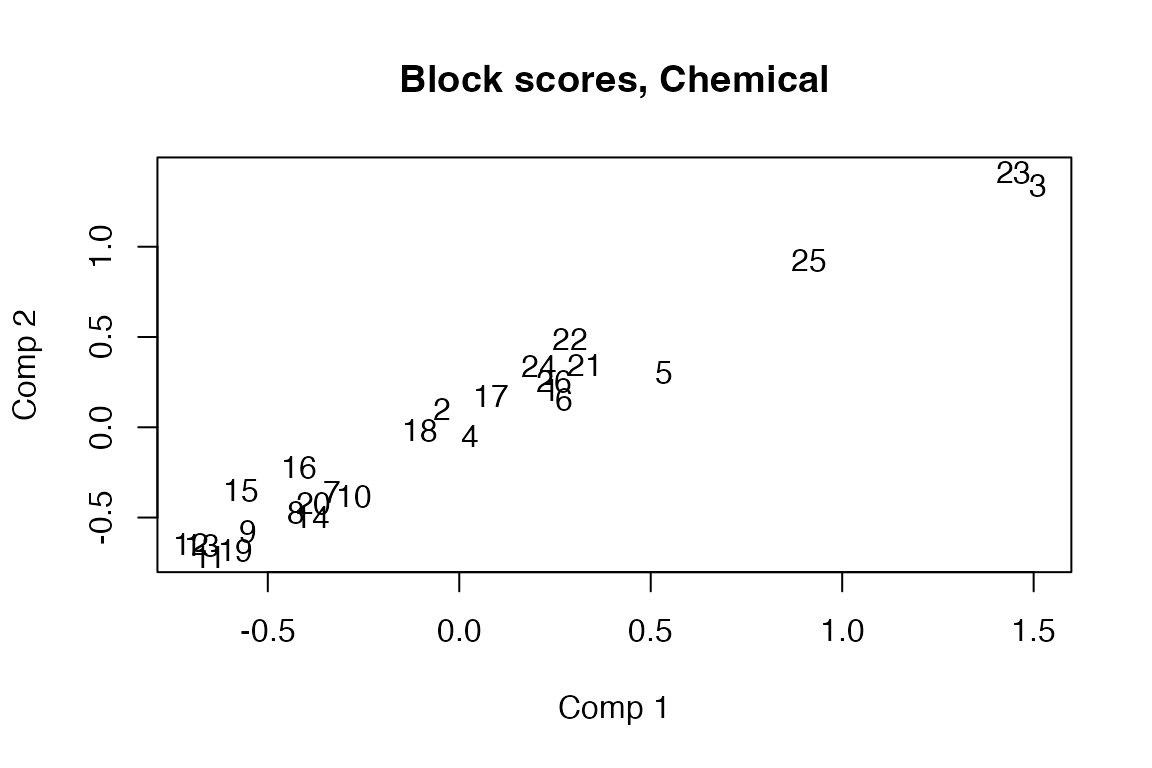
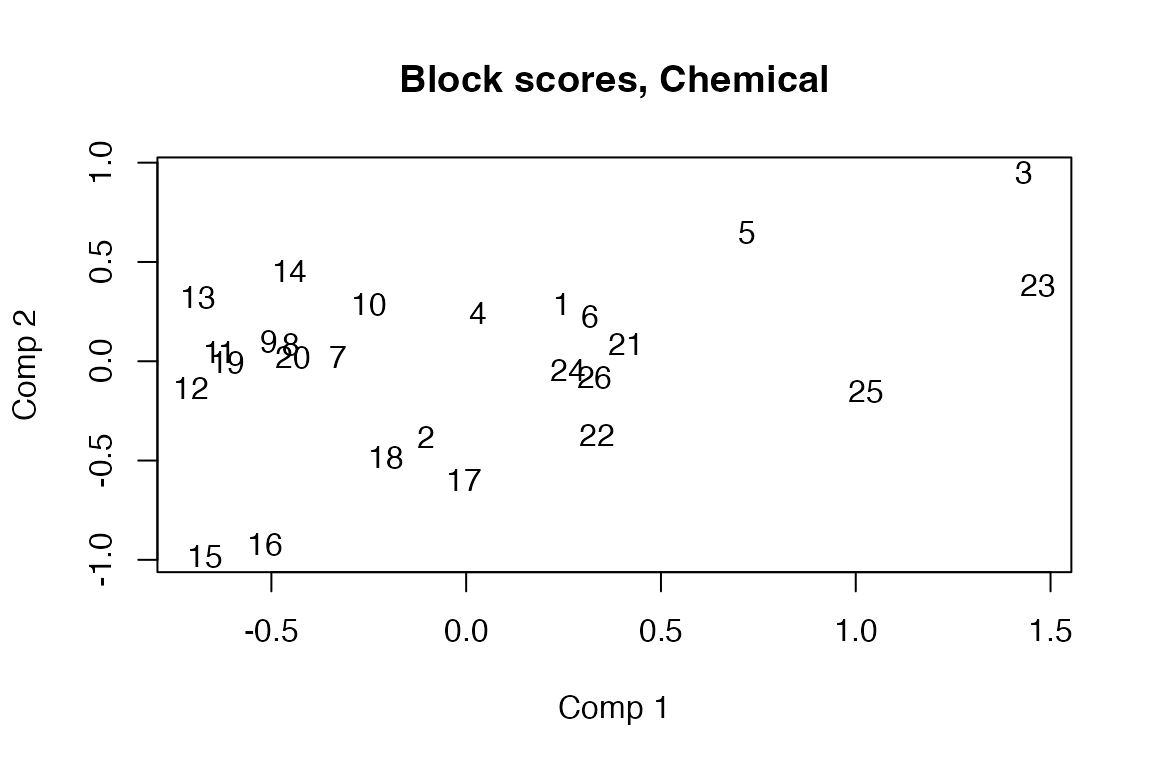
Corrected scaling issue in MBPLS

diff --git a/docs/articles/vignette_E_supervised.html b/docs/articles/vignette_E_supervised.html
@@ -922,11 +922,11 @@ total is cross-validated with 10 random segments.</p>
 <span><span class="co">#&gt; VALIDATION: RMSEP</span></span>
 <span><span class="co">#&gt; Cross-validated using 5 random segments.</span></span>
 <span><span class="co">#&gt;        (Intercept)  1 comps  2 comps  3 comps  4 comps  5 comps  6 comps</span></span>
-<span><span class="co">#&gt; CV           1.778   1.0040   0.9334    0.847   0.7566   0.7241   0.5800</span></span>
-<span><span class="co">#&gt; adjCV        1.778   0.9518   0.8788    0.776   0.6809   0.6530   0.5295</span></span>
+<span><span class="co">#&gt; CV           1.778   0.9601   0.8438   0.7274   0.6197   0.5712   0.5285</span></span>
+<span><span class="co">#&gt; adjCV        1.778   0.9384   0.8166   0.6816   0.5733   0.5314   0.4956</span></span>
 <span><span class="co">#&gt;        7 comps  8 comps  9 comps  10 comps</span></span>
-<span><span class="co">#&gt; CV      0.5626   0.5914   0.6531    0.7122</span></span>
-<span><span class="co">#&gt; adjCV   0.5131   0.5369   0.5927    0.6485</span></span>
+<span><span class="co">#&gt; CV      0.5598   0.5820   0.6517    0.6705</span></span>
+<span><span class="co">#&gt; adjCV   0.5199   0.5369   0.5955    0.6144</span></span>
 <span><span class="co">#&gt; </span></span>
 <span><span class="co">#&gt; TRAINING: % variance explained</span></span>
 <span><span class="co">#&gt;          1 comps  2 comps  3 comps  4 comps  5 comps  6 comps  7 comps  8 comps</span></span>
@@ -984,9 +984,9 @@ RMSE(P/CV).</p>
 <code class="sourceCode R"><span><span class="co"># Cross-validation</span></span>
 <span><span class="fu"><a href="https://rdrr.io/pkg/pls/man/mvrVal.html" class="external-link">R2</a></span><span class="op">(</span><span class="va">ros.pot</span><span class="op">)</span></span>
 <span><span class="co">#&gt; (Intercept)      1 comps      2 comps      3 comps      4 comps      5 comps  </span></span>
-<span><span class="co">#&gt;     -0.0816       0.6550       0.7018       0.7545       0.8041       0.8205  </span></span>
+<span><span class="co">#&gt;     -0.0816       0.6845       0.7563       0.8189       0.8686       0.8883  </span></span>
 <span><span class="co">#&gt;     6 comps      7 comps      8 comps      9 comps     10 comps  </span></span>
-<span><span class="co">#&gt;      0.8849       0.8917       0.8803       0.8540       0.8264</span></span>
+<span><span class="co">#&gt;      0.9044       0.8927       0.8841       0.8546       0.8461</span></span>
 <span><span class="co"># Training</span></span>
 <span><span class="fu"><a href="https://rdrr.io/pkg/pls/man/mvrVal.html" class="external-link">R2</a></span><span class="op">(</span><span class="va">ros.pot</span>, <span class="st">'train'</span><span class="op">)</span></span>
 <span><span class="co">#&gt; (Intercept)      1 comps      2 comps      3 comps      4 comps      5 comps  </span></span>
@@ -1002,11 +1002,11 @@ RMSE(P/CV).</p>
 <code class="sourceCode R"><span><span class="co"># Cross-validation</span></span>
 <span><span class="fu"><a href="https://rdrr.io/pkg/pls/man/mvrVal.html" class="external-link">RMSEP</a></span><span class="op">(</span><span class="va">ros.pot</span><span class="op">)</span></span>
 <span><span class="co">#&gt;        (Intercept)  1 comps  2 comps  3 comps  4 comps  5 comps  6 comps</span></span>
-<span><span class="co">#&gt; CV           1.778   1.0040   0.9334    0.847   0.7566   0.7241   0.5800</span></span>
-<span><span class="co">#&gt; adjCV        1.778   0.9518   0.8788    0.776   0.6809   0.6530   0.5295</span></span>
+<span><span class="co">#&gt; CV           1.778   0.9601   0.8438   0.7274   0.6197   0.5712   0.5285</span></span>
+<span><span class="co">#&gt; adjCV        1.778   0.9384   0.8166   0.6816   0.5733   0.5314   0.4956</span></span>
 <span><span class="co">#&gt;        7 comps  8 comps  9 comps  10 comps</span></span>
-<span><span class="co">#&gt; CV      0.5626   0.5914   0.6531    0.7122</span></span>
-<span><span class="co">#&gt; adjCV   0.5131   0.5369   0.5927    0.6485</span></span>
+<span><span class="co">#&gt; CV      0.5598   0.5820   0.6517    0.6705</span></span>
+<span><span class="co">#&gt; adjCV   0.5199   0.5369   0.5955    0.6144</span></span>
 <span><span class="co"># Training</span></span>
 <span><span class="fu"><a href="https://rdrr.io/pkg/pls/man/mvrVal.html" class="external-link">RMSEP</a></span><span class="op">(</span><span class="va">ros.pot</span>, <span class="st">'train'</span><span class="op">)</span></span>
 <span><span class="co">#&gt; (Intercept)      1 comps      2 comps      3 comps      4 comps      5 comps  </span></span>

diff --git a/docs/reference/reexports.html b/docs/reference/reexports.html
@@ -3,7 +3,7 @@
 below to see their documentation.
 
   pls
-coefplot, cvsegments, loading.weights, loadingplot, loadings, MSEP, mvrValstats, pcr, plsr, predplot, R2, RMSEP, scoreplot, scores, validationplot
+MSEP, R2, RMSEP, coefplot, cvsegments, loading.weights, loadingplot, loadings, mvrValstats, pcr, plsr, predplot, scoreplot, scores, validationplot
 
 
 "><!-- mathjax --><script src="https://cdnjs.cloudflare.com/ajax/libs/mathjax/2.7.5/MathJax.js" integrity="sha256-nvJJv9wWKEm88qvoQl9ekL2J+k/RWIsaSScxxlsrv8k=" crossorigin="anonymous"></script><script src="https://cdnjs.cloudflare.com/ajax/libs/mathjax/2.7.5/config/TeX-AMS-MML_HTMLorMML.js" integrity="sha256-84DKXVJXs0/F8OTMzX4UR909+jtl4G7SPypPavF+GfA=" crossorigin="anonymous"></script><!--[if lt IE 9]>
@@ -81,7 +81,7 @@ coefplot, cvsegments, loading.weights, loadingplot, loadings, MSEP, mvrValstats,
     <p>These objects are imported from other packages. Follow the links
 below to see their documentation.</p>
 <dl><dt>pls</dt>
-<dd><p><code><a href="https://rdrr.io/pkg/pls/man/coefplot.html" class="external-link">coefplot</a></code>, <code><a href="https://rdrr.io/pkg/pls/man/cvsegments.html" class="external-link">cvsegments</a></code>, <code><a href="https://rdrr.io/pkg/pls/man/scores.html" class="external-link">loading.weights</a></code>, <code><a href="https://rdrr.io/pkg/pls/man/scoreplot.html" class="external-link">loadingplot</a></code>, <code><a href="https://rdrr.io/pkg/pls/man/scores.html" class="external-link">loadings</a></code>, <code><a href="https://rdrr.io/pkg/pls/man/mvrVal.html" class="external-link">MSEP</a></code>, <code><a href="https://rdrr.io/pkg/pls/man/mvrVal.html" class="external-link">mvrValstats</a></code>, <code><a href="https://rdrr.io/pkg/pls/man/mvr.html" class="external-link">pcr</a></code>, <code><a href="https://rdrr.io/pkg/pls/man/mvr.html" class="external-link">plsr</a></code>, <code><a href="https://rdrr.io/pkg/pls/man/predplot.html" class="external-link">predplot</a></code>, <code><a href="https://rdrr.io/pkg/pls/man/mvrVal.html" class="external-link">R2</a></code>, <code><a href="https://rdrr.io/pkg/pls/man/mvrVal.html" class="external-link">RMSEP</a></code>, <code><a href="https://rdrr.io/pkg/pls/man/scoreplot.html" class="external-link">scoreplot</a></code>, <code><a href="https://rdrr.io/pkg/pls/man/scores.html" class="external-link">scores</a></code>, <code><a href="https://rdrr.io/pkg/pls/man/validationplot.html" class="external-link">validationplot</a></code></p></dd>
+<dd><p><code><a href="https://rdrr.io/pkg/pls/man/mvrVal.html" class="external-link">MSEP</a></code>, <code><a href="https://rdrr.io/pkg/pls/man/mvrVal.html" class="external-link">R2</a></code>, <code><a href="https://rdrr.io/pkg/pls/man/mvrVal.html" class="external-link">RMSEP</a></code>, <code><a href="https://rdrr.io/pkg/pls/man/coefplot.html" class="external-link">coefplot</a></code>, <code><a href="https://rdrr.io/pkg/pls/man/cvsegments.html" class="external-link">cvsegments</a></code>, <code><a href="https://rdrr.io/pkg/pls/man/scores.html" class="external-link">loading.weights</a></code>, <code><a href="https://rdrr.io/pkg/pls/man/scoreplot.html" class="external-link">loadingplot</a></code>, <code><a href="https://rdrr.io/pkg/pls/man/scores.html" class="external-link">loadings</a></code>, <code><a href="https://rdrr.io/pkg/pls/man/mvrVal.html" class="external-link">mvrValstats</a></code>, <code><a href="https://rdrr.io/pkg/pls/man/mvr.html" class="external-link">pcr</a></code>, <code><a href="https://rdrr.io/pkg/pls/man/mvr.html" class="external-link">plsr</a></code>, <code><a href="https://rdrr.io/pkg/pls/man/predplot.html" class="external-link">predplot</a></code>, <code><a href="https://rdrr.io/pkg/pls/man/scoreplot.html" class="external-link">scoreplot</a></code>, <code><a href="https://rdrr.io/pkg/pls/man/scores.html" class="external-link">scores</a></code>, <code><a href="https://rdrr.io/pkg/pls/man/validationplot.html" class="external-link">validationplot</a></code></p></dd>
 
 
 </dl></div>

diff --git a/docs/reference/gpa.html b/docs/reference/gpa.html
@@ -871,18 +871,6 @@ Common functions for computation and extraction of results and plotting are foun
 <span class="r-wrn co"><span class="r-pr">#&gt;</span>   Use c() or as.vector() instead.</span>
 <span class="r-wrn co"><span class="r-pr">#&gt;</span> <span class="warning">Warning: </span>Recycling array of length 1 in vector-array arithmetic is deprecated.</span>
 <span class="r-wrn co"><span class="r-pr">#&gt;</span>   Use c() or as.vector() instead.</span>
-<span class="r-wrn co"><span class="r-pr">#&gt;</span> <span class="warning">Warning: </span>Recycling array of length 1 in vector-array arithmetic is deprecated.</span>
-<span class="r-wrn co"><span class="r-pr">#&gt;</span>   Use c() or as.vector() instead.</span>
-<span class="r-wrn co"><span class="r-pr">#&gt;</span> <span class="warning">Warning: </span>Recycling array of length 1 in vector-array arithmetic is deprecated.</span>
-<span class="r-wrn co"><span class="r-pr">#&gt;</span>   Use c() or as.vector() instead.</span>
-<span class="r-wrn co"><span class="r-pr">#&gt;</span> <span class="warning">Warning: </span>Recycling array of length 1 in vector-array arithmetic is deprecated.</span>
-<span class="r-wrn co"><span class="r-pr">#&gt;</span>   Use c() or as.vector() instead.</span>
-<span class="r-wrn co"><span class="r-pr">#&gt;</span> <span class="warning">Warning: </span>Recycling array of length 1 in vector-array arithmetic is deprecated.</span>
-<span class="r-wrn co"><span class="r-pr">#&gt;</span>   Use c() or as.vector() instead.</span>
-<span class="r-wrn co"><span class="r-pr">#&gt;</span> <span class="warning">Warning: </span>Recycling array of length 1 in vector-array arithmetic is deprecated.</span>
-<span class="r-wrn co"><span class="r-pr">#&gt;</span>   Use c() or as.vector() instead.</span>
-<span class="r-wrn co"><span class="r-pr">#&gt;</span> <span class="warning">Warning: </span>Recycling array of length 1 in vector-array arithmetic is deprecated.</span>
-<span class="r-wrn co"><span class="r-pr">#&gt;</span>   Use c() or as.vector() instead.</span>
 <span class="r-in"><span><span class="fu"><a href="https://rdrr.io/r/graphics/plot.default.html" class="external-link">plot</a></span><span class="op">(</span><span class="fu"><a href="https://rdrr.io/pkg/pls/man/scores.html" class="external-link">scores</a></span><span class="op">(</span><span class="va">pot.gpa</span><span class="op">)</span>, labels<span class="op">=</span><span class="st">"names"</span><span class="op">)</span></span></span>
 <span class="r-plt img"><img src="gpa-1.png" alt="" width="700" height="433"></span>
 <span class="r-in"><span></span></span>

diff --git a/docs/reference/rosa.html b/docs/reference/rosa.html
@@ -194,11 +194,11 @@ Common functions for computation and extraction of results and plotting are foun
 <span class="r-out co"><span class="r-pr">#&gt;</span> VALIDATION: RMSEP</span>
 <span class="r-out co"><span class="r-pr">#&gt;</span> Cross-validated using 5 random segments.</span>
 <span class="r-out co"><span class="r-pr">#&gt;</span>        (Intercept)  1 comps  2 comps  3 comps  4 comps  5 comps  6 comps</span>
-<span class="r-out co"><span class="r-pr">#&gt;</span> CV           1.778    1.461    1.286    1.140   0.9529   0.9382   0.8441</span>
-<span class="r-out co"><span class="r-pr">#&gt;</span> adjCV        1.778    1.381    1.209    1.044   0.8634   0.8487   0.7667</span>
+<span class="r-out co"><span class="r-pr">#&gt;</span> CV           1.778    1.091   0.9672   0.7892   0.6965   0.6399   0.6638</span>
+<span class="r-out co"><span class="r-pr">#&gt;</span> adjCV        1.778    1.041   0.9124   0.7271   0.6310   0.5871   0.6106</span>
 <span class="r-out co"><span class="r-pr">#&gt;</span>        7 comps  8 comps  9 comps  10 comps</span>
-<span class="r-out co"><span class="r-pr">#&gt;</span> CV      0.7626   0.8183   0.8680    0.9840</span>
-<span class="r-out co"><span class="r-pr">#&gt;</span> adjCV   0.6914   0.7413   0.7834    0.8903</span>
+<span class="r-out co"><span class="r-pr">#&gt;</span> CV      0.7149   0.7323   0.8047    0.8811</span>
+<span class="r-out co"><span class="r-pr">#&gt;</span> adjCV   0.6543   0.6690   0.7299    0.7985</span>
 <span class="r-out co"><span class="r-pr">#&gt;</span> </span>
 <span class="r-out co"><span class="r-pr">#&gt;</span> TRAINING: % variance explained</span>
 <span class="r-out co"><span class="r-pr">#&gt;</span>               1 comps  2 comps  3 comps  4 comps  5 comps  6 comps  7 comps</span>

diff --git a/docs/reference/block.data.frame.html b/docs/reference/block.data.frame.html
@@ -114,11 +114,11 @@ indexed on a block-wise basis.</p>
 <span class="r-in"><span><span class="va">X</span> <span class="op">&lt;-</span> <span class="fu">block.data.frame</span><span class="op">(</span><span class="va">M</span>, <span class="va">inds</span><span class="op">)</span></span></span>
 <span class="r-in"><span><span class="fu"><a href="https://rdrr.io/r/utils/str.html" class="external-link">str</a></span><span class="op">(</span><span class="va">X</span><span class="op">)</span></span></span>
 <span class="r-out co"><span class="r-pr">#&gt;</span> List of 2</span>
-<span class="r-out co"><span class="r-pr">#&gt;</span>  $ B1: 'AsIs' num [1:10, 1:10] 0.901 0.978 -0.335 -1.042 1.013 ...</span>
+<span class="r-out co"><span class="r-pr">#&gt;</span>  $ B1: 'AsIs' num [1:10, 1:10] 0.964 0.3739 0.0521 -0.4747 -0.5379 ...</span>
 <span class="r-out co"><span class="r-pr">#&gt;</span>   ..- attr(*, "dimnames")=List of 2</span>
 <span class="r-out co"><span class="r-pr">#&gt;</span>   .. ..$ : chr [1:10] "A" "B" "C" "D" ...</span>
 <span class="r-out co"><span class="r-pr">#&gt;</span>   .. ..$ : chr [1:10] "1" "2" "3" "4" ...</span>
-<span class="r-out co"><span class="r-pr">#&gt;</span>  $ B2: 'AsIs' num [1:10, 1:10] 0.134 -0.194 0.204 -0.424 -0.459 ...</span>
+<span class="r-out co"><span class="r-pr">#&gt;</span>  $ B2: 'AsIs' num [1:10, 1:10] -0.2772 -0.2919 0.0669 -1.431 -0.5855 ...</span>
 <span class="r-out co"><span class="r-pr">#&gt;</span>   ..- attr(*, "dimnames")=List of 2</span>
 <span class="r-out co"><span class="r-pr">#&gt;</span>   .. ..$ : chr [1:10] "A" "B" "C" "D" ...</span>
 <span class="r-out co"><span class="r-pr">#&gt;</span>   .. ..$ : chr [1:10] "11" "12" "13" "14" ...</span>

diff --git a/docs/reference/jive.html b/docs/reference/jive.html
@@ -123,14 +123,6 @@ low-dimensional representations of individual and joint variation plus residual 
 <span class="r-out co"><span class="r-pr">#&gt;</span> JIVE algorithm converged after  16  iterations.</span>
 <span class="r-out co"><span class="r-pr">#&gt;</span> Re-estimating  joint and individual ranks via permutation...</span>
 <span class="r-out co"><span class="r-pr">#&gt;</span> Running JIVE algorithm for ranks:</span>
-<span class="r-out co"><span class="r-pr">#&gt;</span> joint rank: 1 , individual ranks: 1 0 1 1 1 </span>
-<span class="r-out co"><span class="r-pr">#&gt;</span> JIVE algorithm converged after  12  iterations.</span>
-<span class="r-out co"><span class="r-pr">#&gt;</span> Re-estimating  joint and individual ranks via permutation...</span>
-<span class="r-out co"><span class="r-pr">#&gt;</span> Running JIVE algorithm for ranks:</span>
-<span class="r-out co"><span class="r-pr">#&gt;</span> joint rank: 1 , individual ranks: 1 0 1 2 1 </span>
-<span class="r-out co"><span class="r-pr">#&gt;</span> JIVE algorithm converged after  15  iterations.</span>
-<span class="r-out co"><span class="r-pr">#&gt;</span> Re-estimating  joint and individual ranks via permutation...</span>
-<span class="r-out co"><span class="r-pr">#&gt;</span> Running JIVE algorithm for ranks:</span>
 <span class="r-out co"><span class="r-pr">#&gt;</span> joint rank: 1 , individual ranks: 1 0 1 0 1 </span>
 <span class="r-out co"><span class="r-pr">#&gt;</span> JIVE algorithm converged after  13  iterations.</span>
 <span class="r-out co"><span class="r-pr">#&gt;</span> Re-estimating  joint and individual ranks via permutation...</span>
